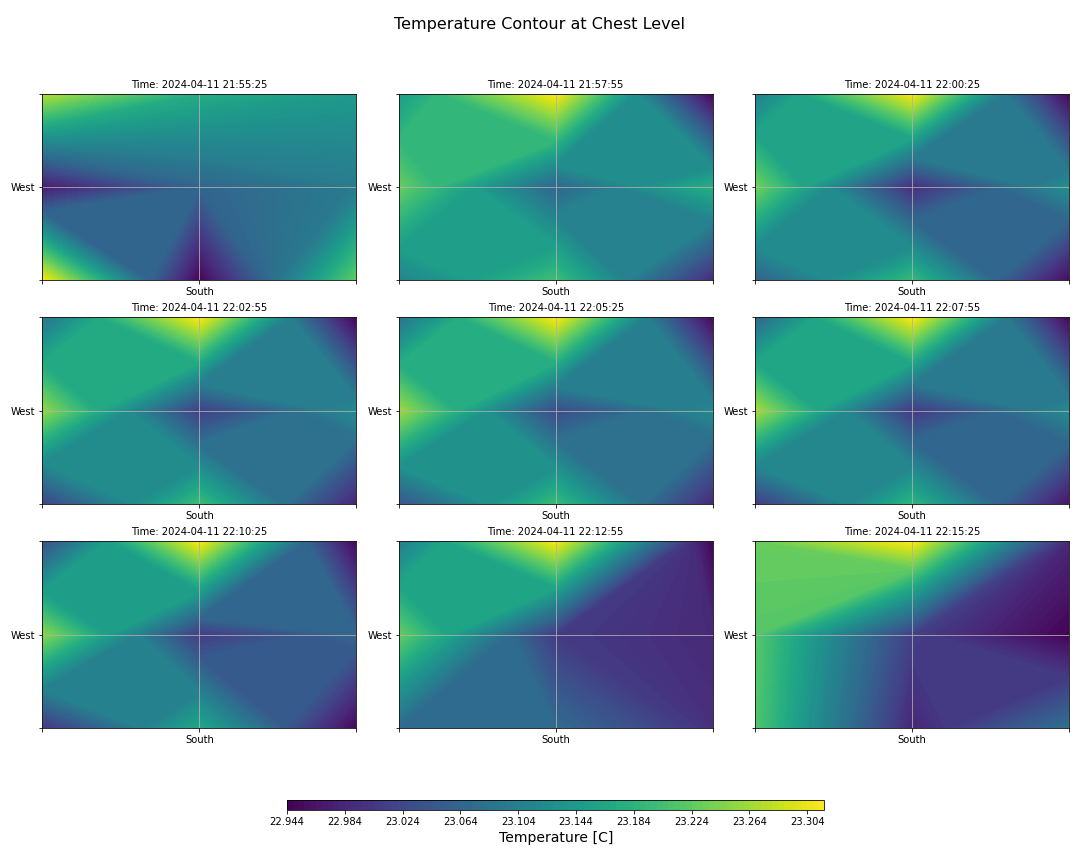
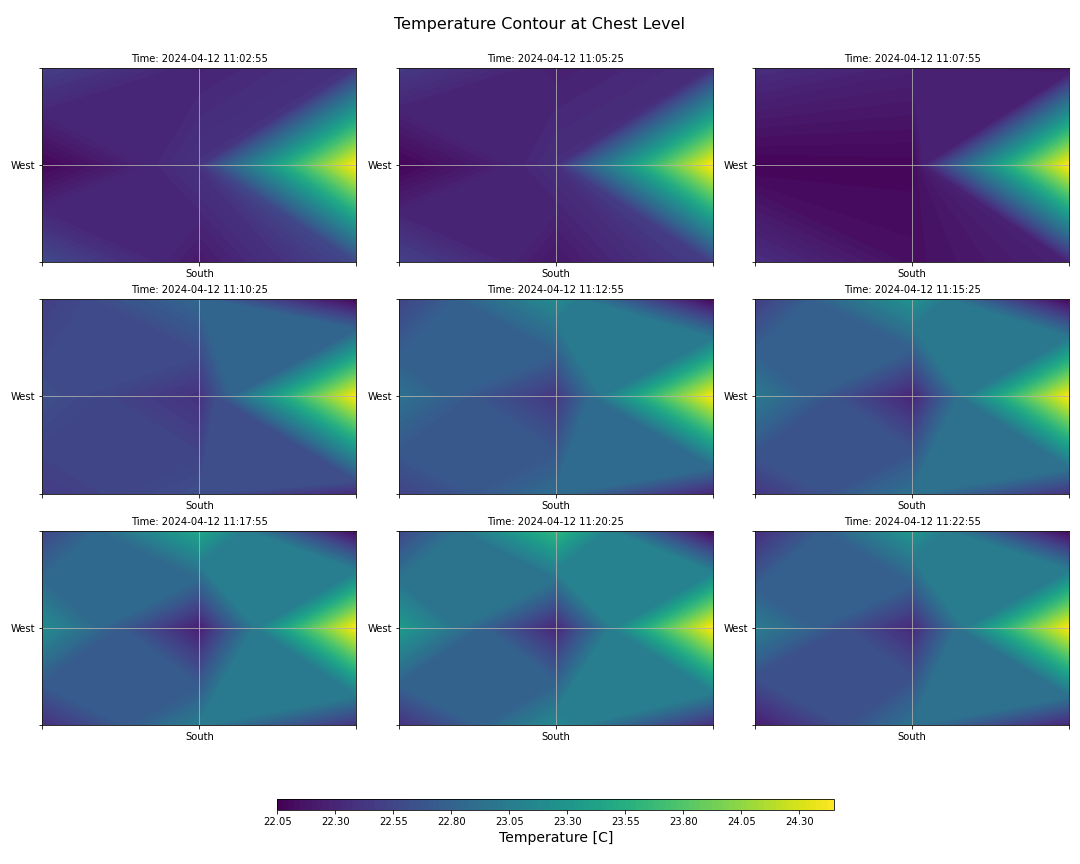
change chest level temp contour plot
changed the chest level temp contour plot to be around 11AM on 4/12/2024. This time, due to the solar radiation, the east wall has a more obvious high temperature comparing to the other walls

diff --git a/CFD_data/CFD_data_plot.py b/CFD_data/CFD_data_plot.py
@@ -3,7 +3,8 @@ import matplotlib.pyplot as plt
 import numpy as np
 import matplotlib.dates as mdates
 #%% Load the CSV file
-file_path = 'D:/GitHub/CFD_test/CFD_data/test_original_v2.csv'
+# file_path = 'D:/GitHub/CFD_test/CFD_data/test_original_v2.csv'
+file_path = 'test_original_v2.csv'
 try:
     data = pd.read_csv(file_path)
 except UnicodeDecodeError:
@@ -125,7 +126,8 @@ for level in range(1, 6):
 
 #%% Contour plot for temp at chest level
 # Select the specific rows from 485 to 540 with a step of 5
-rows_of_interest = np.arange(485, 541, 5)
+# rows_of_interest = np.arange(485, 541, 5)
+rows_of_interest = np.arange(2060, 2116, 5)
 selected_data = data.iloc[rows_of_interest]
 
 # Prepare the x, y, and temperature data for contour plotting
@@ -174,5 +176,6 @@ cbar = fig.colorbar(contour,
                     aspect=50)
 cbar.set_label('Temperature [C]', fontsize=14)
 # save figure
-file_path = 'D:/GitHub/CFD_test/CFD_data/Tempe_contour_chest Level.png'
-plt.savefig(file_path)
+# file_path = 'D:/GitHub/CFD_test/CFD_data/Tempe_contour_chest Level.png'
+# plt.savefig(file_path)
+plt.savefig('Tempe_contour_chest Level.png')
